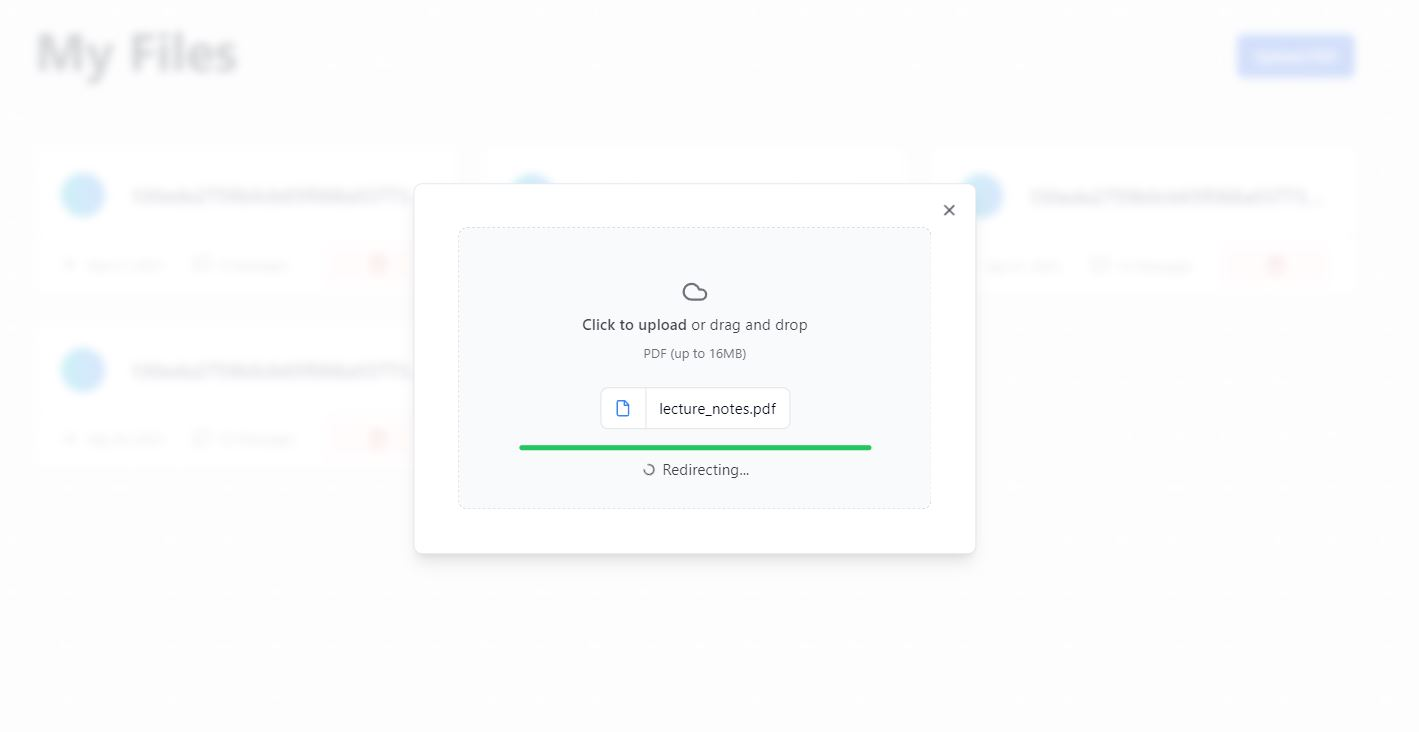
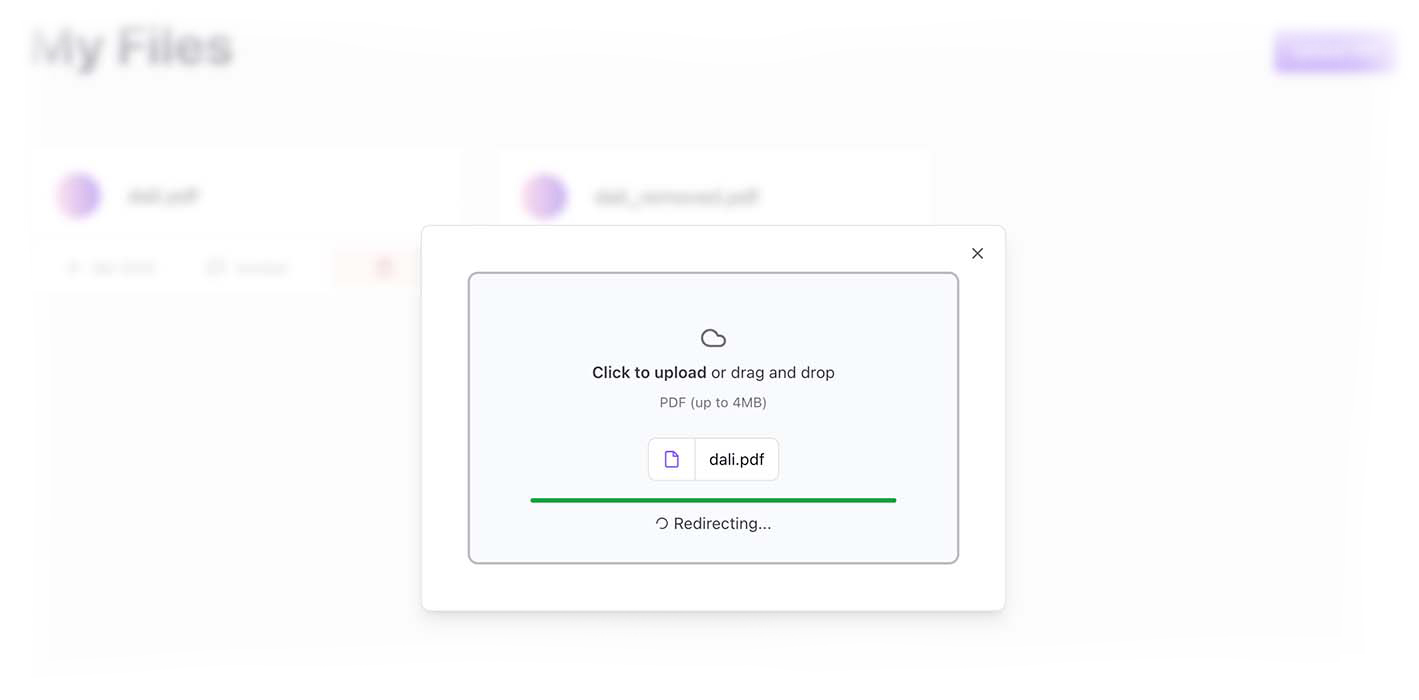
change images

diff --git a/src/components/ui/dialog.tsx b/src/components/ui/dialog.tsx
@@ -1,18 +1,17 @@
-"use client"
+'use client';
 
-import * as React from "react"
-import * as DialogPrimitive from "@radix-ui/react-dialog"
-import { X } from "lucide-react"
+import { cn } from '@/lib/utils';
+import * as DialogPrimitive from '@radix-ui/react-dialog';
+import { X } from 'lucide-react';
+import * as React from 'react';
 
-import { cn } from "@/lib/utils"
+const Dialog = DialogPrimitive.Root;
 
-const Dialog = DialogPrimitive.Root
+const DialogTrigger = DialogPrimitive.Trigger;
 
-const DialogTrigger = DialogPrimitive.Trigger
+const DialogPortal = DialogPrimitive.Portal;
 
-const DialogPortal = DialogPrimitive.Portal
-
-const DialogClose = DialogPrimitive.Close
+const DialogClose = DialogPrimitive.Close;
 
 const DialogOverlay = React.forwardRef<
   React.ElementRef<typeof DialogPrimitive.Overlay>,
@@ -21,13 +20,13 @@ const DialogOverlay = React.forwardRef<
   <DialogPrimitive.Overlay
     ref={ref}
     className={cn(
-      "fixed inset-0 z-50 bg-black/80  data-[state=open]:animate-in data-[state=closed]:animate-out data-[state=closed]:fade-out-0 data-[state=open]:fade-in-0",
-      className
+      'fixed inset-0 z-50 bg-white/60 backdrop-blur-sm data-[state=open]:animate-in data-[state=closed]:animate-out data-[state=closed]:fade-out-0 data-[state=open]:fade-in-0',
+      className,
     )}
     {...props}
   />
-))
-DialogOverlay.displayName = DialogPrimitive.Overlay.displayName
+));
+DialogOverlay.displayName = DialogPrimitive.Overlay.displayName;
 
 const DialogContent = React.forwardRef<
   React.ElementRef<typeof DialogPrimitive.Content>,
@@ -38,8 +37,8 @@ const DialogContent = React.forwardRef<
     <DialogPrimitive.Content
       ref={ref}
       className={cn(
-        "fixed left-[50%] top-[50%] z-50 grid w-full max-w-lg translate-x-[-50%] translate-y-[-50%] gap-4 border bg-background p-6 shadow-lg duration-200 data-[state=open]:animate-in data-[state=closed]:animate-out data-[state=closed]:fade-out-0 data-[state=open]:fade-in-0 data-[state=closed]:zoom-out-95 data-[state=open]:zoom-in-95 data-[state=closed]:slide-out-to-left-1/2 data-[state=closed]:slide-out-to-top-[48%] data-[state=open]:slide-in-from-left-1/2 data-[state=open]:slide-in-from-top-[48%] sm:rounded-lg",
-        className
+        'fixed left-[50%] top-[50%] z-50 grid w-full max-w-lg translate-x-[-50%] translate-y-[-50%] gap-4 border bg-background p-6 shadow-lg duration-200 data-[state=open]:animate-in data-[state=closed]:animate-out data-[state=closed]:fade-out-0 data-[state=open]:fade-in-0 data-[state=closed]:zoom-out-95 data-[state=open]:zoom-in-95 data-[state=closed]:slide-out-to-left-1/2 data-[state=closed]:slide-out-to-top-[48%] data-[state=open]:slide-in-from-left-1/2 data-[state=open]:slide-in-from-top-[48%] sm:rounded-lg',
+        className,
       )}
       {...props}
     >
@@ -50,36 +49,21 @@ const DialogContent = React.forwardRef<
       </DialogPrimitive.Close>
     </DialogPrimitive.Content>
   </DialogPortal>
-))
-DialogContent.displayName = DialogPrimitive.Content.displayName
+));
+DialogContent.displayName = DialogPrimitive.Content.displayName;
 
-const DialogHeader = ({
-  className,
-  ...props
-}: React.HTMLAttributes<HTMLDivElement>) => (
+const DialogHeader = ({ className, ...props }: React.HTMLAttributes<HTMLDivElement>) => (
+  <div className={cn('flex flex-col space-y-1.5 text-center sm:text-left', className)} {...props} />
+);
+DialogHeader.displayName = 'DialogHeader';
+
+const DialogFooter = ({ className, ...props }: React.HTMLAttributes<HTMLDivElement>) => (
   <div
-    className={cn(
-      "flex flex-col space-y-1.5 text-center sm:text-left",
-      className
-    )}
+    className={cn('flex flex-col-reverse sm:flex-row sm:justify-end sm:space-x-2', className)}
     {...props}
   />
-)
-DialogHeader.displayName = "DialogHeader"
-
-const DialogFooter = ({
-  className,
-  ...props
-}: React.HTMLAttributes<HTMLDivElement>) => (
-  <div
-    className={cn(
-      "flex flex-col-reverse sm:flex-row sm:justify-end sm:space-x-2",
-      className
-    )}
-    {...props}
-  />
-)
-DialogFooter.displayName = "DialogFooter"
+);
+DialogFooter.displayName = 'DialogFooter';
 
 const DialogTitle = React.forwardRef<
   React.ElementRef<typeof DialogPrimitive.Title>,
@@ -87,14 +71,11 @@ const DialogTitle = React.forwardRef<
 >(({ className, ...props }, ref) => (
   <DialogPrimitive.Title
     ref={ref}
-    className={cn(
-      "text-lg font-semibold leading-none tracking-tight",
-      className
-    )}
+    className={cn('text-lg font-semibold leading-none tracking-tight', className)}
     {...props}
   />
-))
-DialogTitle.displayName = DialogPrimitive.Title.displayName
+));
+DialogTitle.displayName = DialogPrimitive.Title.displayName;
 
 const DialogDescription = React.forwardRef<
   React.ElementRef<typeof DialogPrimitive.Description>,
@@ -102,11 +83,11 @@ const DialogDescription = React.forwardRef<
 >(({ className, ...props }, ref) => (
   <DialogPrimitive.Description
     ref={ref}
-    className={cn("text-sm text-muted-foreground", className)}
+    className={cn('text-sm text-muted-foreground', className)}
     {...props}
   />
-))
-DialogDescription.displayName = DialogPrimitive.Description.displayName
+));
+DialogDescription.displayName = DialogPrimitive.Description.displayName;
 
 export {
   Dialog,
@@ -119,4 +100,4 @@ export {
   DialogFooter,
   DialogTitle,
   DialogDescription,
-}
+};

diff --git a/src/app/page.tsx b/src/app/page.tsx
@@ -54,7 +54,7 @@ export default function Home() {
                     alt="product preview"
                     src="/dashboard-preview.jpg"
                     width={1364}
-                    height={866}
+                    height={726}
                     quality={100}
                     className="rounded-md bg-white p-2 sm:p-8 md:p-20 shadow-2xl ring-1 ring-gray-900/10"
                   />
@@ -132,7 +132,7 @@ export default function Home() {
                 alt="uploading preview"
                 src="/file-upload-preview.jpg"
                 width={1419}
-                height={732}
+                height={700}
                 quality={100}
                 className="rounded-md bg-white p-2 sm:p-8 md:p-20 shadow-2xl ring-1 ring-gray-900/10"
               />
